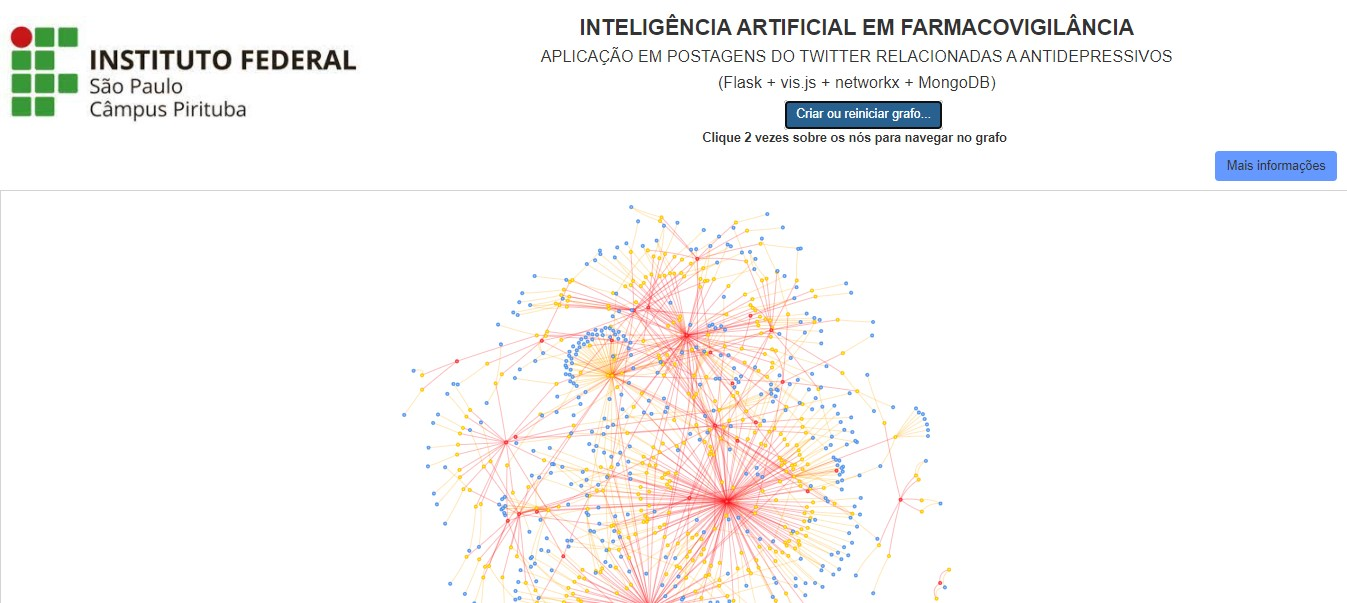
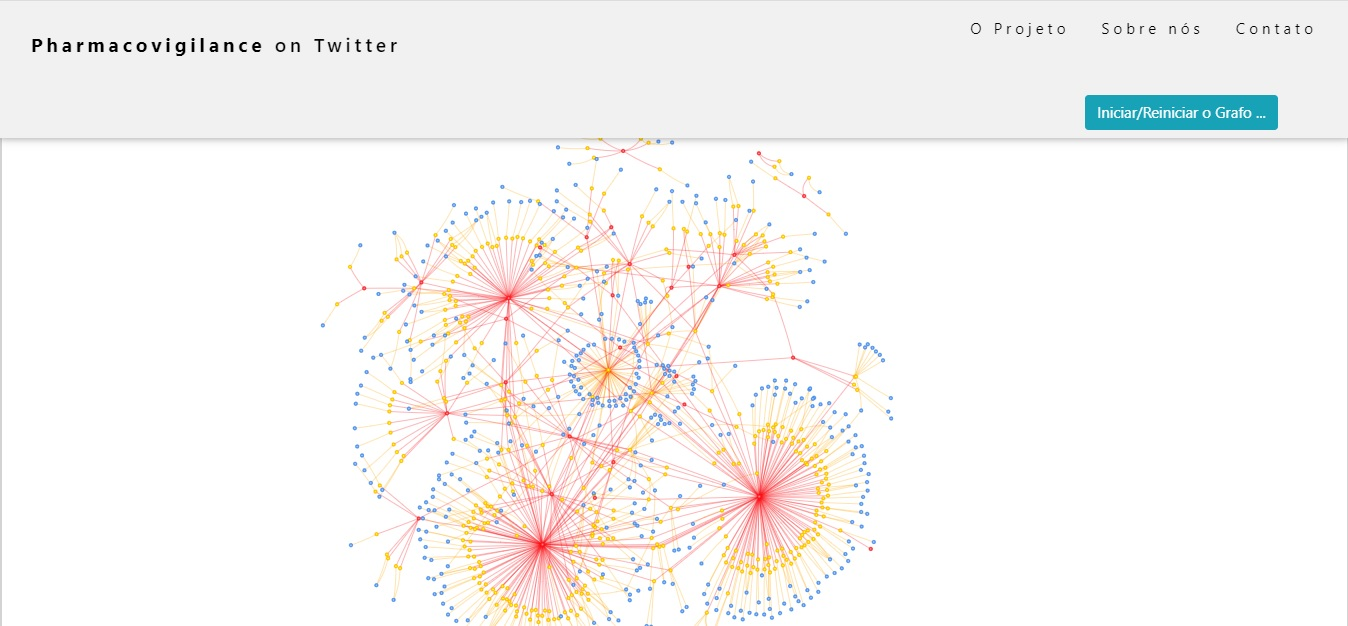
update 25.08 2.0

diff --git a/templates/layouts/index.html b/templates/layouts/index.html
@@ -30,7 +30,7 @@
     <!-- Navbar (sit on top) -->
     <div class="w3-top">
         <div class="w3-bar w3-light-grey w3-wide w3-padding w3-card">
-            <!---a href="#top" id="banner"><h5><b>Pharmacovigilance</b> on Twitter</a></h5> --->
+            <a href="#top" id="banner"><h5><b>Pharmacovigilance</b> on Twitter</a></h5>
             <br>
             <!-- Float links to the right. Hide them on small screens -->
             <div class="w3-right w3-hide-small" style="margin-top: -30px;">
